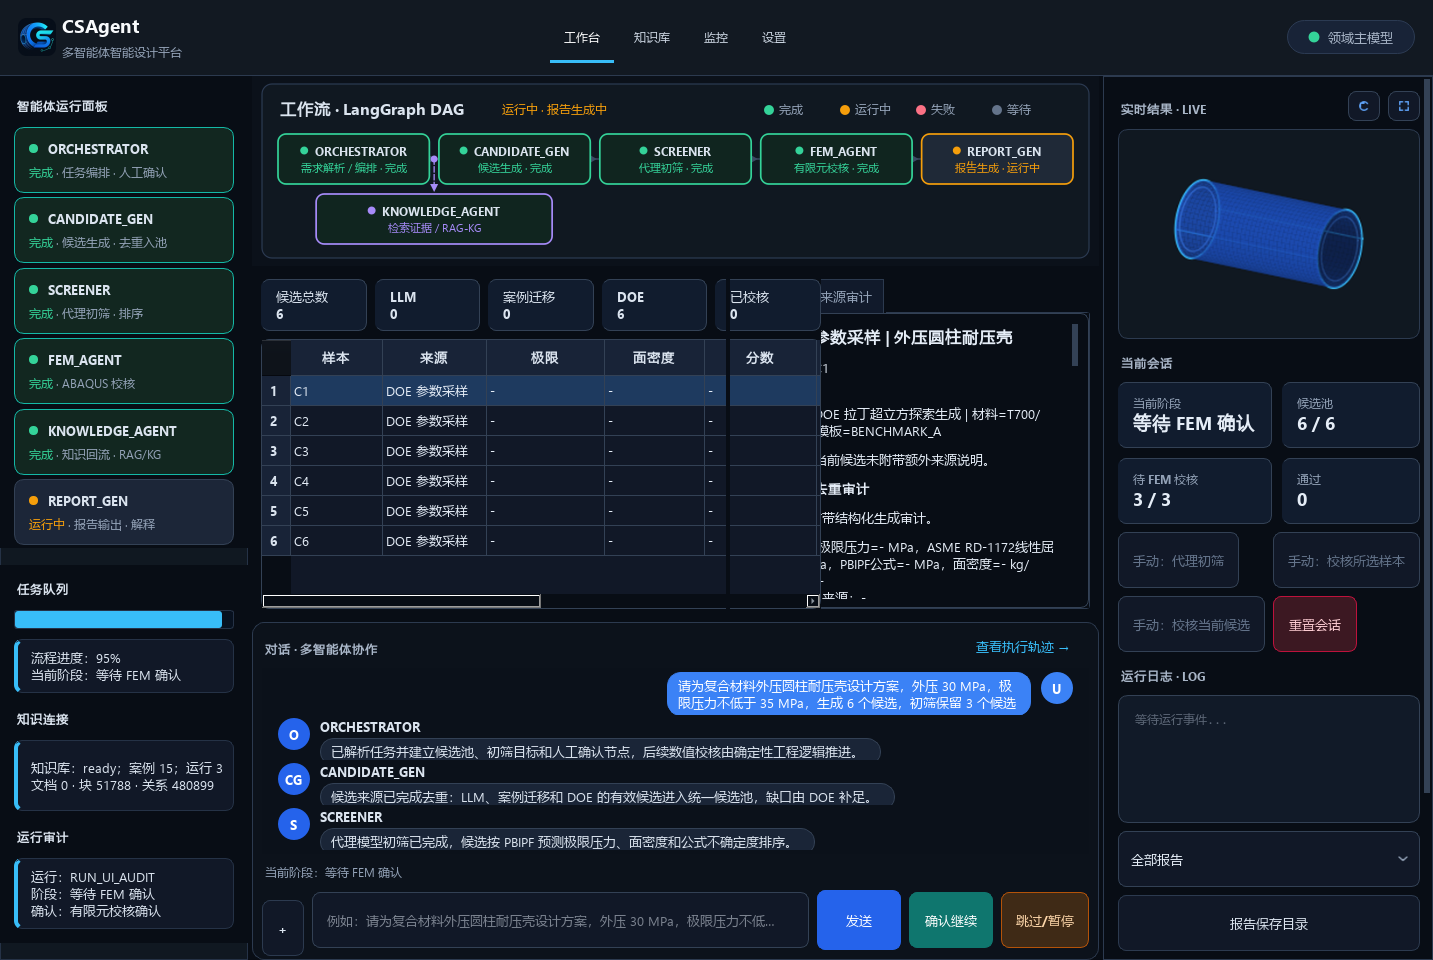
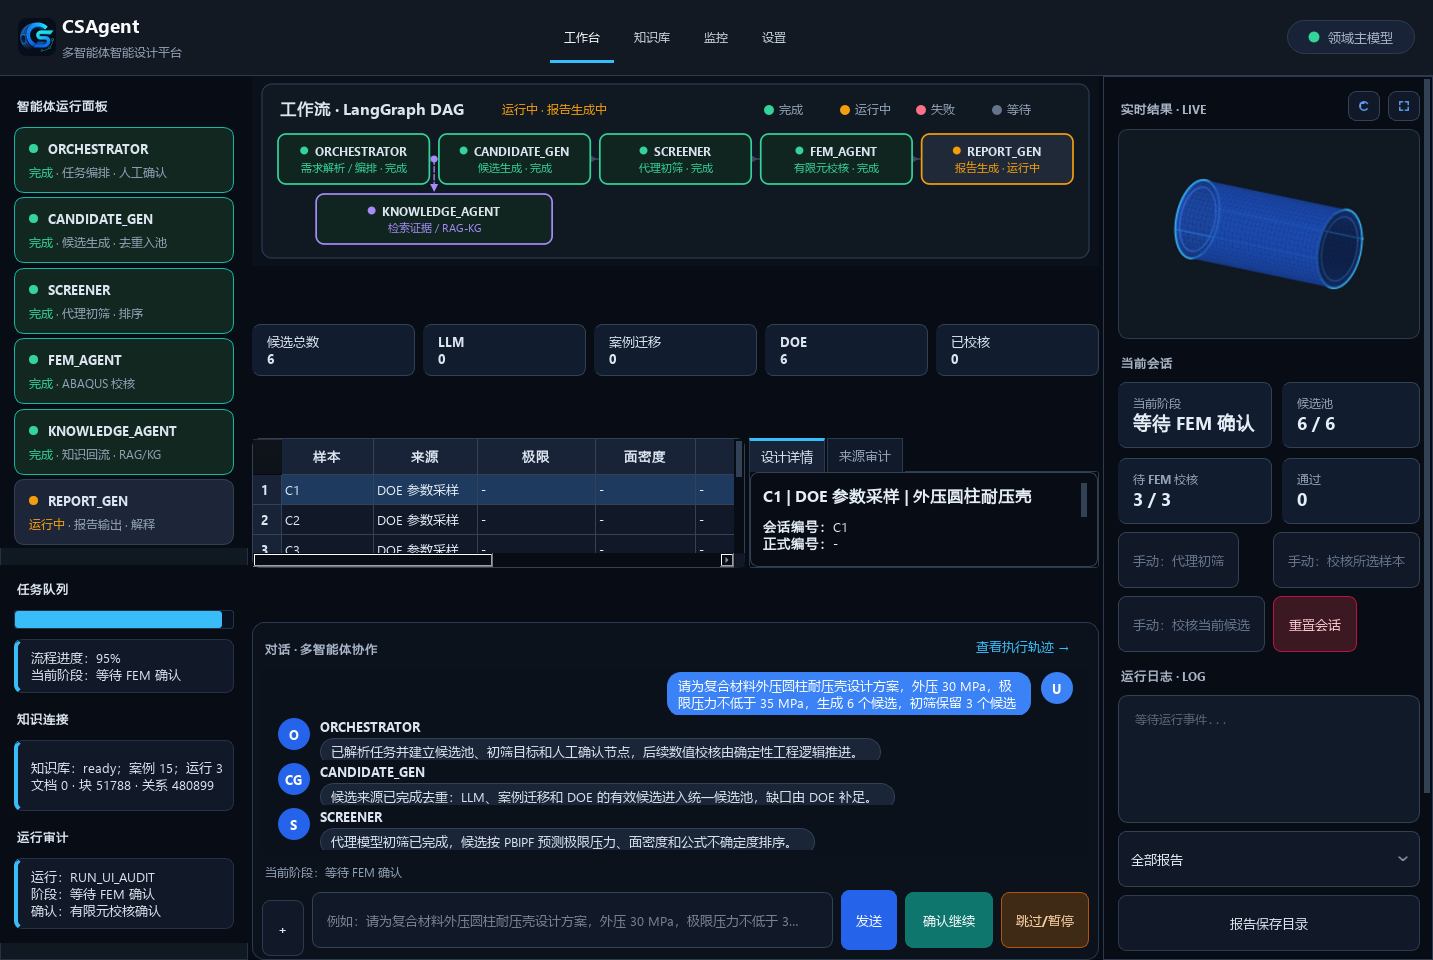
Improve workbench candidate and input layout

Changed region(s): [[0.1535, 0.2812, 0.7676, 0.5938], [0.5527, 0.9062, 0.6755, 1.0]]

diff --git a/gui/candidate_widget.py b/gui/candidate_widget.py
@@ -10,7 +10,6 @@ from PyQt6.QtGui import QColor
 from PyQt6.QtWidgets import (
     QGridLayout,
     QHeaderView,
-    QHBoxLayout,
     QFrame,
     QLabel,
     QSizePolicy,
@@ -122,6 +121,8 @@ class CandidateWidget(QWidget):
             metric_layout.setColumnStretch(index, 1)
         self.metric_widget = QWidget()
         self.metric_widget.setLayout(metric_layout)
+        self.metric_widget.setSizePolicy(QSizePolicy.Policy.Expanding, QSizePolicy.Policy.Fixed)
+        self.metric_widget.setMaximumHeight(64)
 
         self.detail_browser = QTextBrowser()
         self.audit_browser = QTextBrowser()
@@ -130,42 +131,28 @@ class CandidateWidget(QWidget):
         self.detail_tabs.addTab(self.audit_browser, tr("candidate.tab.audit", language=self.language))
         self.detail_tabs.setMaximumHeight(300)
 
-        left_layout = QVBoxLayout()
-        left_layout.setContentsMargins(0, 0, 0, 0)
-        left_layout.setSpacing(8)
-        left_layout.setAlignment(Qt.AlignmentFlag.AlignTop)
-        left_layout.addWidget(self.metric_widget, 0)
-        left_layout.addWidget(self.table_stack, 1)
-        left_widget = QWidget()
-        left_widget.setLayout(left_layout)
-        left_widget.setMinimumWidth(560)
-        self.left_widget = left_widget
-
-        right_layout = QVBoxLayout()
-        right_layout.setContentsMargins(0, 0, 0, 0)
-        right_layout.setSpacing(8)
-        right_layout.setAlignment(Qt.AlignmentFlag.AlignTop)
-        right_layout.addWidget(self.detail_tabs, 1)
-
-        right_widget = QWidget()
-        right_widget.setLayout(right_layout)
-        right_widget.setMinimumWidth(360)
-        self.right_widget = right_widget
-
         splitter = QSplitter()
-        splitter.addWidget(left_widget)
-        splitter.addWidget(right_widget)
-        splitter.setSizes([860, 500])
+        splitter.addWidget(self.table_stack)
+        splitter.addWidget(self.detail_tabs)
+        splitter.setChildrenCollapsible(False)
+        splitter.setSizePolicy(QSizePolicy.Policy.Expanding, QSizePolicy.Policy.Expanding)
+        splitter.setSizes([760, 540])
         self.splitter = splitter
 
-        layout = QHBoxLayout(self)
-        layout.addWidget(splitter)
+        layout = QVBoxLayout(self)
+        layout.setContentsMargins(0, 0, 0, 0)
+        layout.setSpacing(8)
+        layout.addWidget(self.metric_widget, 0)
+        layout.addWidget(splitter, 1)
         self.update_candidates([])
 
     def _metric_label(self) -> QLabel:
         label = QLabel()
         label.setWordWrap(False)
         label.setMinimumWidth(92)
+        label.setMinimumHeight(52)
+        label.setMaximumHeight(52)
+        label.setSizePolicy(QSizePolicy.Policy.Expanding, QSizePolicy.Policy.Fixed)
         label.setProperty("role", "metricCard")
         return label
 
@@ -277,8 +264,7 @@ class CandidateWidget(QWidget):
             self.table_stack.setSizePolicy(QSizePolicy.Policy.Expanding, QSizePolicy.Policy.Expanding)
             self.detail_tabs.setMaximumHeight(16777215)
             self.detail_tabs.setVisible(True)
-            self.right_widget.setVisible(True)
-            self.splitter.setSizes([860, 500])
+            self.splitter.setSizes([760, 540])
         else:
             self.setMinimumHeight(132)
             self.setMaximumHeight(156)
@@ -287,7 +273,6 @@ class CandidateWidget(QWidget):
             self.table_stack.setSizePolicy(QSizePolicy.Policy.Expanding, QSizePolicy.Policy.Fixed)
             self.detail_tabs.setMaximumHeight(16777215)
             self.detail_tabs.setVisible(False)
-            self.right_widget.setVisible(False)
             self.splitter.setSizes([1200, 0])
         source_counter: dict[str, int] = {}
 

diff --git a/gui/main_window.py b/gui/main_window.py
@@ -332,6 +332,9 @@ class MainWindow(QMainWindow):
         self.generate_button = QPushButton(self.locale.text("button.start"))
         self.confirm_yes_button = QPushButton(self.locale.text("button.confirm"))
         self.confirm_no_button = QPushButton(self.locale.text("button.pause"))
+        self.generate_button.setFixedWidth(56)
+        self.confirm_yes_button.setFixedWidth(88)
+        self.confirm_no_button.setFixedWidth(88)
         self.trace_button = QPushButton(self.locale.text("button.view_trace"))
         self.trace_button.setObjectName("traceLinkButton")
         self.trace_button.setMinimumWidth(132)
@@ -495,6 +498,7 @@ class MainWindow(QMainWindow):
         input_action_layout.addWidget(self.generate_button)
         input_action_layout.addWidget(self.confirm_yes_button)
         input_action_layout.addWidget(self.confirm_no_button)
+        self.input_action_layout = input_action_layout
 
         stats_layout = QGridLayout()
         stats_layout.setHorizontalSpacing(10)
@@ -1751,6 +1755,15 @@ class MainWindow(QMainWindow):
                 button.setMinimumWidth(84)
         button.setProperty("variant", variant)
 
+    def _fit_input_action_buttons(self) -> None:
+        for button, minimum_width in [
+            (self.generate_button, 56),
+            (self.confirm_yes_button, 88),
+            (self.confirm_no_button, 88),
+        ]:
+            text_width = button.fontMetrics().horizontalAdvance(button.text())
+            button.setFixedWidth(max(minimum_width, text_width + 24))
+
     def _apply_styles(self) -> None:
         for card in [self.stage_card, self.candidate_card, self.pending_card, self.pass_card]:
             card.setProperty("role", "metricCard")
@@ -1771,6 +1784,7 @@ class MainWindow(QMainWindow):
         self._set_button_variant(self.evaluate_all_button)
         self._set_button_variant(self.report_button, "primary")
         self._set_button_variant(self.reset_button, "danger")
+        self._fit_input_action_buttons()
         self.workflow_widget.set_theme(self.locale.theme)
         self.flow_dag_widget.set_theme(self.locale.theme)
         self.flow_dag_widget.set_language(self.locale.language)

diff --git a/tests/test_main_window.py b/tests/test_main_window.py
@@ -58,6 +58,28 @@ class FakeKnowledge:
         return {"query": query, "chunks": [], "relations": []}
 
 
+def test_confirmation_controls_share_input_action_row(monkeypatch) -> None:
+    monkeypatch.setenv("CSDM_cph_DISABLE_LLM_AUTO", "1")
+    app = _app()
+    window = MainWindow()
+    try:
+        row_widgets = [window.input_action_layout.itemAt(index).widget() for index in range(window.input_action_layout.count())]
+        assert row_widgets == [
+            window.example_button,
+            window.input_line,
+            window.generate_button,
+            window.confirm_yes_button,
+            window.confirm_no_button,
+        ]
+        assert window.input_line.sizePolicy().horizontalPolicy().name == "Expanding"
+        for button in [window.generate_button, window.confirm_yes_button, window.confirm_no_button]:
+            text_width = button.fontMetrics().horizontalAdvance(button.text())
+            assert text_width <= max(0, button.width() - 18)
+    finally:
+        window.close()
+        app.processEvents()
+
+
 def test_report_button_allows_partial_evaluated_results(monkeypatch) -> None:
     monkeypatch.setenv("CSDM_cph_DISABLE_LLM_AUTO", "1")
     app = _app()

diff --git a/tests/test_candidate_widget.py b/tests/test_candidate_widget.py
@@ -78,3 +78,23 @@ def test_candidate_widget_renders_generation_audit() -> None:
     finally:
         widget.close()
         app.processEvents()
+
+
+def test_candidate_widget_metrics_span_above_table_and_detail() -> None:
+    app = _app()
+    widget = CandidateWidget()
+    try:
+        assert widget.layout().itemAt(0).widget() is widget.metric_widget
+        assert widget.layout().itemAt(1).widget() is widget.splitter
+        assert widget.splitter.widget(0) is widget.table_stack
+        assert widget.splitter.widget(1) is widget.detail_tabs
+        assert widget.metric_widget.maximumHeight() <= 64
+
+        widget.update_candidates([_candidate()])
+        assert widget.metric_widget.isHidden() is False
+        assert widget.detail_tabs.isHidden() is False
+        assert widget.total_metric.maximumHeight() == 52
+        assert widget.table_stack.currentWidget() is widget.table
+    finally:
+        widget.close()
+        app.processEvents()
